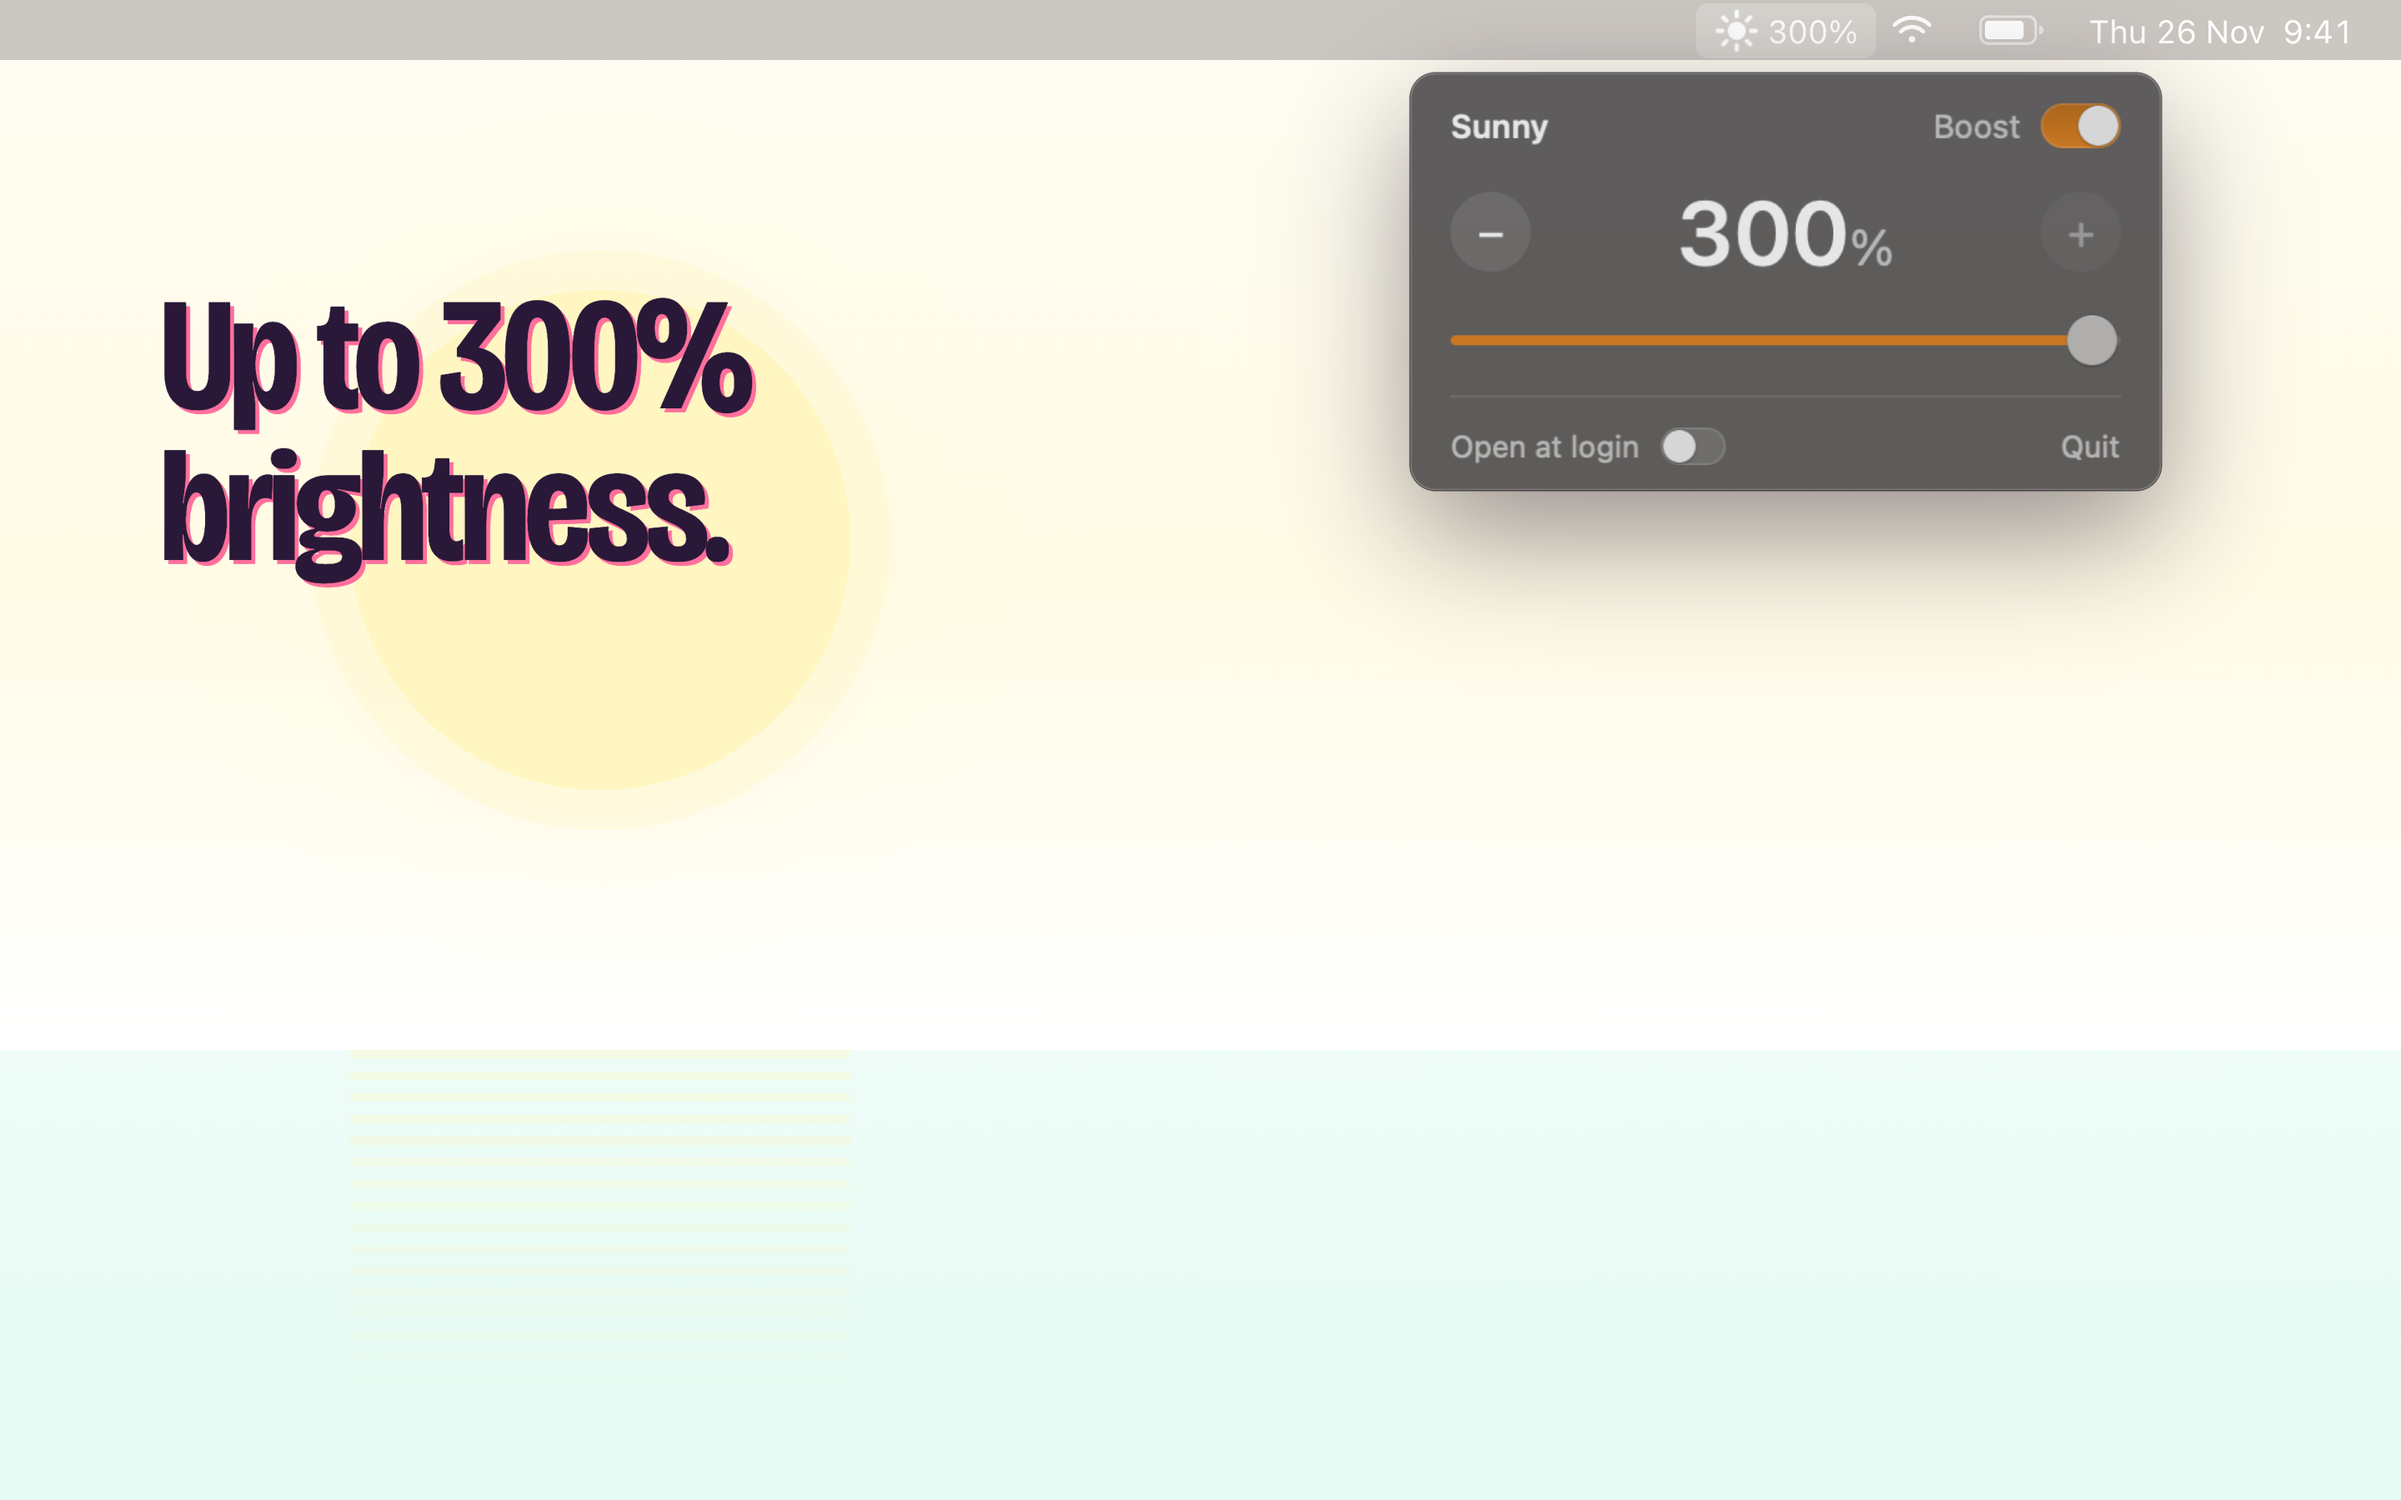
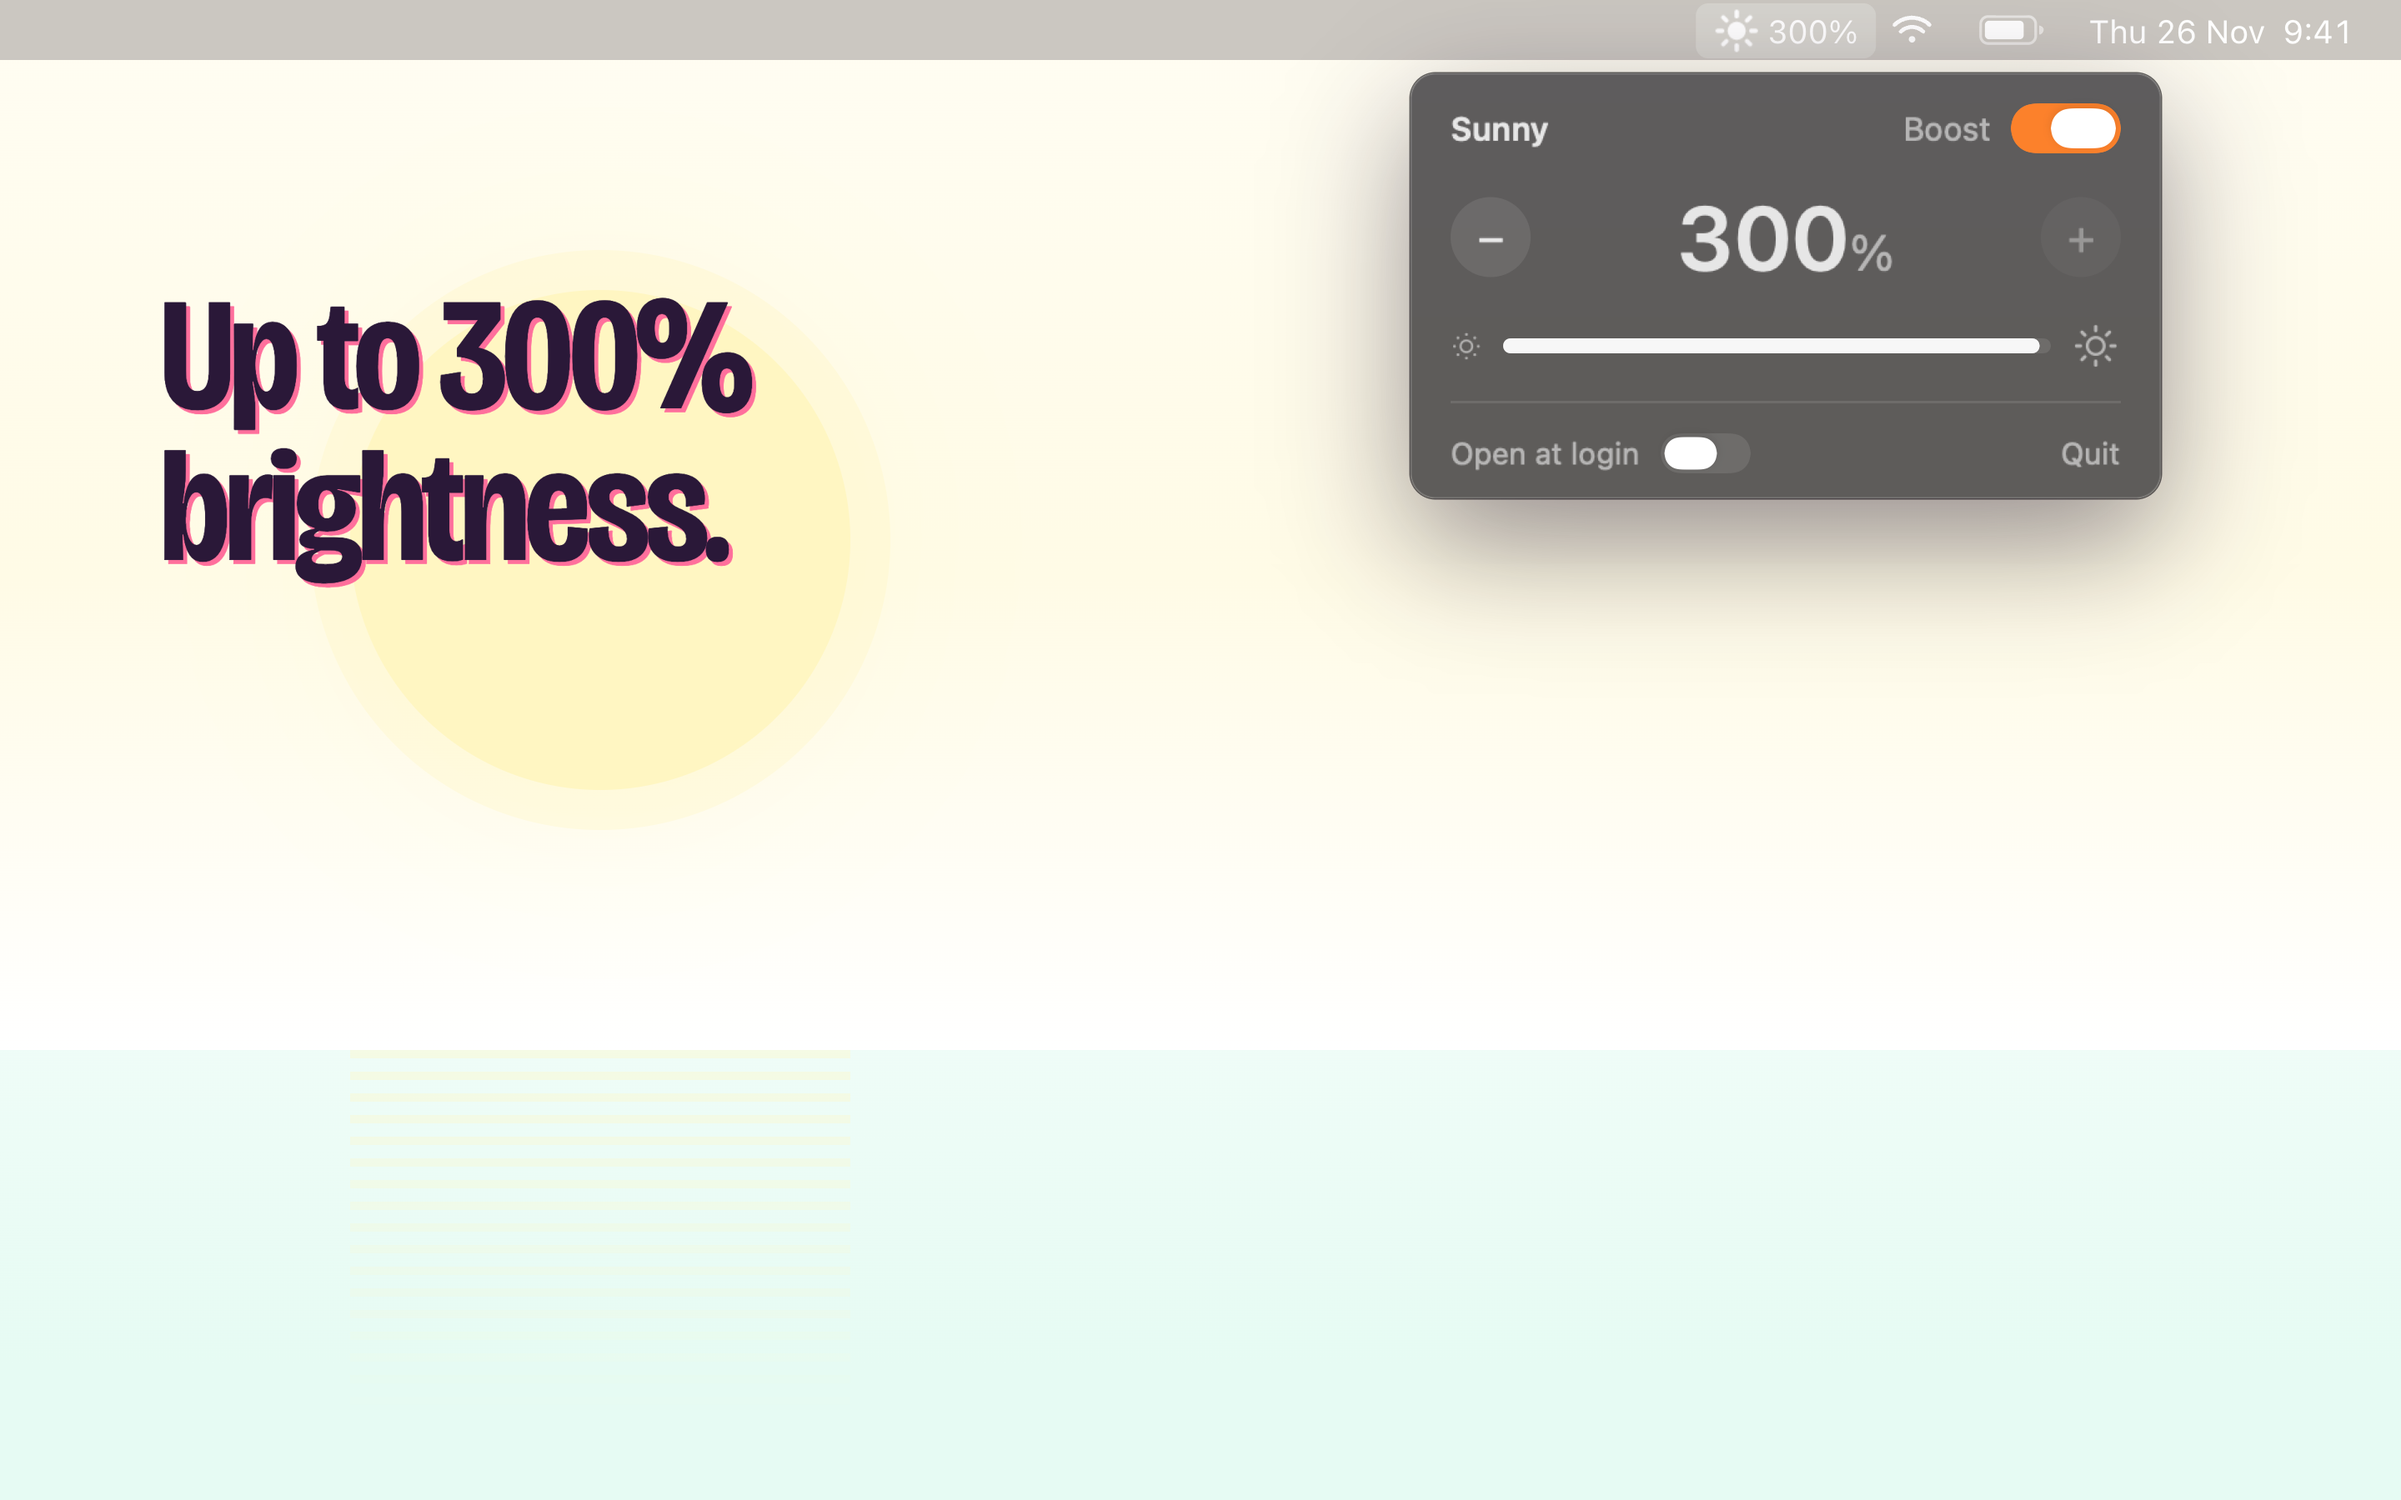
App Store screenshots: the Control Center style slider
Regenerated with appstore/screenshots.mjs, so they show the popover's
current slider (a fill, no knob) instead of the old knob slider.

The popover capture now lets the Boost switch settle when it flips: it
was caught halfway through its animation, half-tinted at 200% and still
on at 100% in "Back to normal in one click".

diff --git a/native/Sources/boost-check/Capture.swift b/native/Sources/boost-check/Capture.swift
@@ -110,8 +110,13 @@ final class PopoverCanvas {
 
   /// Shows a level and lays the view out for it.
   func show(_ level: Int) {
+    let wasOn = model.isOn
     model.set(level)
     layout()
+    // The Boost switch animates when it flips: let it settle, or the picture catches it halfway.
+    if model.isOn != wasOn {
+      RunLoop.main.run(until: Date().addingTimeInterval(0.6))
+    }
   }
 
   private func layout() {
